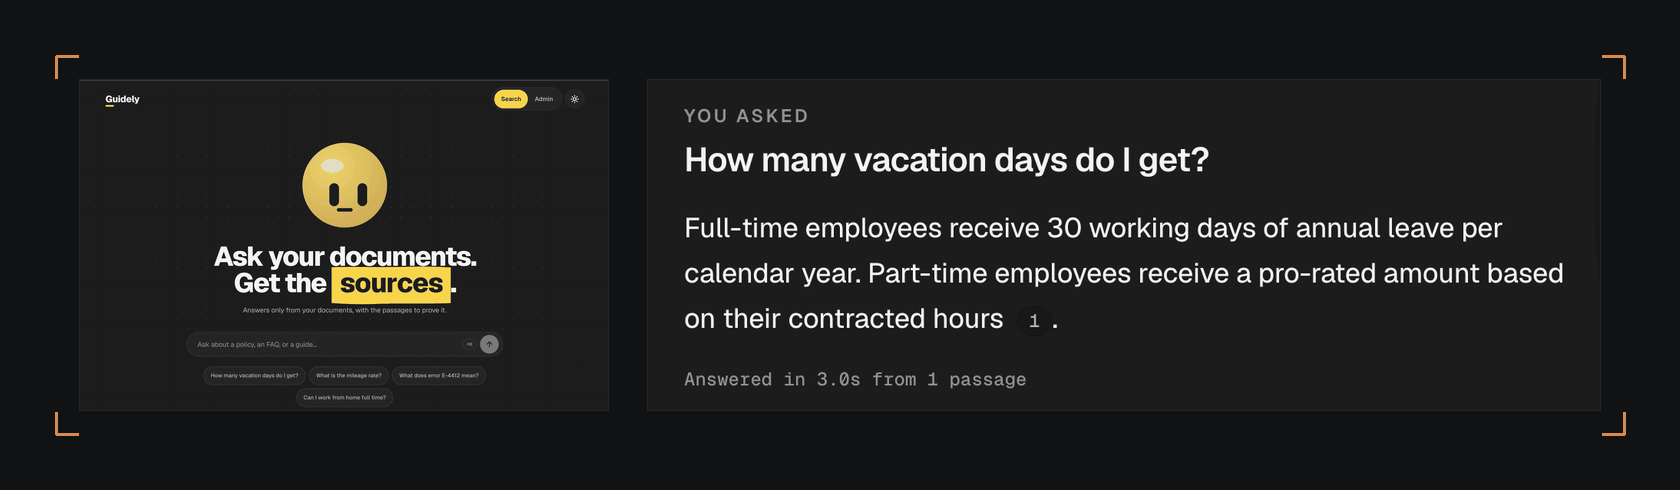
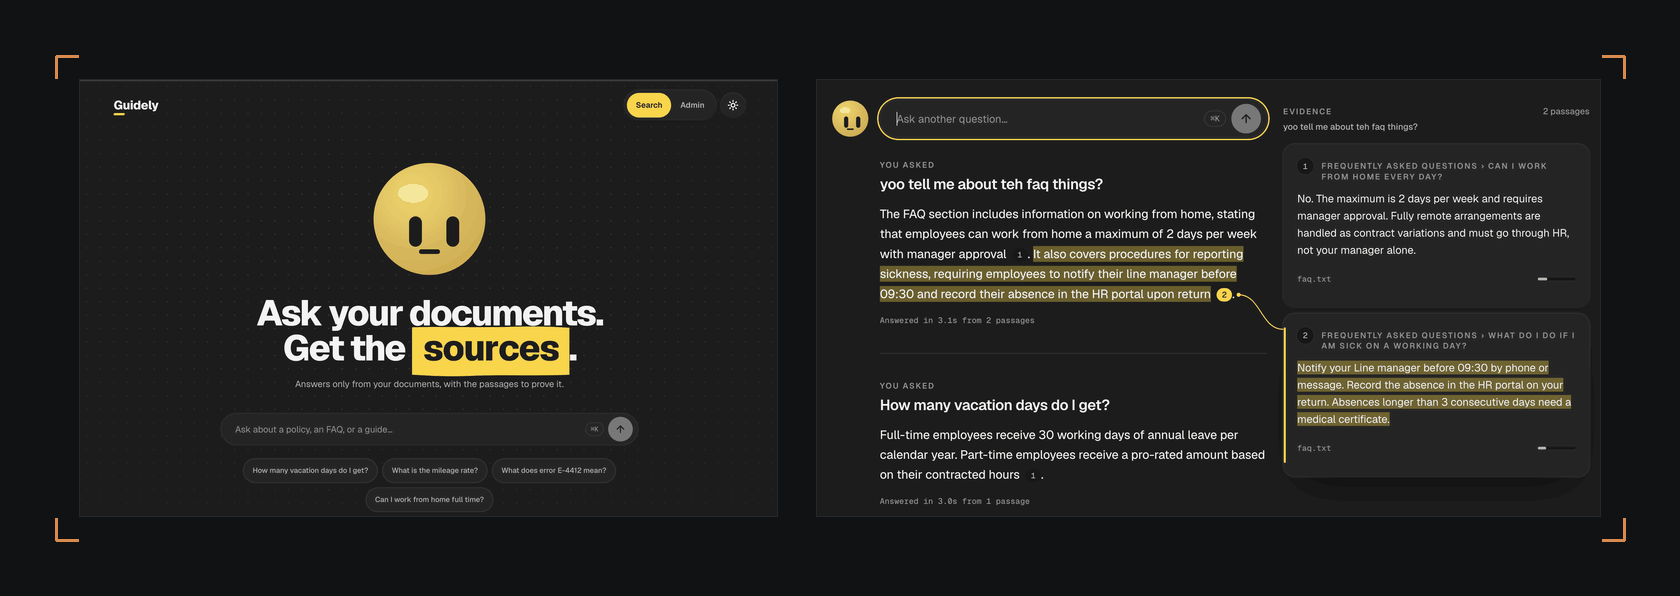
Hero: drop the Arabic panel, open up spacing; Guidely: full answer screen with citations
Claude-Session: https://claude.ai/code/session_01FVzaJfu2vtTPRn9Vb34pe2

diff --git a/tools/build_svgs.py b/tools/build_svgs.py
@@ -159,44 +159,30 @@ class Svg:
 # ------------------------------------------------------------------- hero
 def hero(t):
     c = THEMES[t]
-    W, H, M = 1280, 440, 72
+    W, H, M = 1280, 540, 72
     s = Svg(W, H, t, "hero")
     s.dots("dots")
-    s.stripes("st", 0.5)
     s.rect(0, 0, W, H, c["bg"])
     s.rect(0, 0, W, H, "url(#dots)")
     s.crop_marks(24, 24, W - 24, H - 24, 18, c["muted"])
 
     A800, A500, M500 = alex(800), alex(500), mono(500)
-    s.text(M500, "// MANAMA, BAHRAIN", 16, M, 62, c["accent"], tracking=0.08)
+    s.text(M500, "// MANAMA, BAHRAIN", 16, M, 74, c["accent"], tracking=0.08)
 
     size = 144
     cap = A800.cap * size
-    b1, b2 = 198, 198 + 120
-    s.text(A800, "ABDULLA", size, M, b1, stroke=c["text"], sw=2.5, tracking=0.035, kern=False)
-    w2 = s.text(A800, "AHMED", size, M, b2, stroke=c["text"], sw=2.5, tracking=0.035, kern=False)
+    b1, b2 = 236, 236 + 150
+    s.text(A800, "ABDULLA", size, M, b1, stroke=c["text"], sw=2.5, tracking=0.06, kern=False)
+    w2 = s.text(A800, "AHMED", size, M, b2, stroke=c["text"], sw=2.5, tracking=0.06, kern=False)
     # blinking cursor, the only moving element
-    cx = M + w2 + 26
+    cx = M + w2 + 30
     s.add(f'<rect x="{fmt(cx)}" y="{fmt(b2 - cap)}" width="34" height="{fmt(cap)}" fill="{c["accent"]}">'
           f'<animate attributeName="opacity" values="1;1;0;0" keyTimes="0;0.5;0.5;1" dur="1.1s" repeatCount="indefinite"/></rect>')
 
-    s.text(A500, "Full-stack developer and UI/UX designer", 30, M, 372, c["text"])
-    s.line(M, 390.5, 900, 390.5, c["line"])
-    s.text(M500, "NOW: CLOUD INNOVATION CENTER INTERN, AWS", 13, M, 416, c["muted"], tracking=0.06)
-
-    # stripe panel (right), framed
-    px, py, pw, ph = 984, 68, 224, 304
-    s.rect(px, py, pw, ph, c["surface"])
-    s.rect(px, py, pw, ph, "url(#st)")
-    # Arabic name, outlined like the Latin one (shaped right to left, joined)
-    asz = 50
-    aw = A800.width("عبدالله", asz)
-    assert aw < pw - 40, aw
-    s.text(A800, "عبدالله", asz, px + pw / 2, py + ph / 2 + A800.cap * asz / 2, stroke=c["text"], sw=2.5,
-           anchor="middle", kern=True)
-    s.rect(px + .5, py + .5, pw - 1, ph - 1, "none", c["line"])
-    s.crop_marks(px - 12, py - 12, px + pw + 12, py + ph + 12, 12, c["accent"], 1.5)
-    s.text(M500, "26.22 N / 50.59 E", 13, px + pw, py + ph + 44, c["muted"], tracking=0.06, anchor="end")
+    s.text(A500, "Full-stack developer and UI/UX designer", 30, M, 452, c["text"])
+    s.line(M, 478.5, W - M, 478.5, c["line"])
+    s.text(M500, "NOW: CLOUD INNOVATION CENTER INTERN, AWS", 13, M, 506, c["muted"], tracking=0.06)
+    s.text(M500, "26.22 N / 50.59 E", 13, W - M, 506, c["muted"], tracking=0.06, anchor="end")
     return s.save()
 
 
@@ -335,7 +321,7 @@ def guidely_png(t):
     c = THEMES[t]
     W, M, GAP = 1680, 80, 40
     home = Image.open(SRC / "guidely-home.png").convert("RGB").crop((371, 0, 2860, 1556))  # stops above the live stats line
-    ans = Image.open(SRC / "guidely-answer.png").convert("RGB").crop((590, 1128, 1830, 1558))  # second Q&A only
+    ans = Image.open(SRC / "guidely-answer.png").convert("RGB").crop((450, 265, 2780, 1562))  # answer with citations and the evidence panel
     a1, a2 = home.width / home.height, ans.width / ans.height
     inner = W - 2 * M - GAP
     H = round(inner / (a1 + a2))

diff --git a/README.md b/README.md
@@ -4,6 +4,9 @@
   <img src="./assets/hero-light.svg" alt="Abdulla Ahmed. Full-stack developer and UI/UX designer. Manama, Bahrain. Currently a Cloud Innovation Center intern at AWS." width="100%">
 </picture>
 
+<br>
+
+
 <p align="center">
   I design interfaces and build the systems behind them. Currently a Cloud Innovation Center intern at AWS, building an Arabic-first compliance tool. Studying ICT (Programming) at Bahrain Polytechnic and full-stack development at Reboot01.
 </p>
@@ -65,8 +68,10 @@ Solo RAG assistant that answers from company documents with cited sources. 100% 
 <picture>
   <source media="(prefers-color-scheme: dark)" srcset="./assets/shot-guidely-dark.png">
   <source media="(prefers-color-scheme: light)" srcset="./assets/shot-guidely-light.png">
-  <img src="./assets/shot-guidely-light.png" alt="Guidely screenshots: the home screen 'Ask your documents. Get the sources.' with suggested questions, and an answer with numbered citations linked to the evidence passages." width="100%">
+  <img src="./assets/shot-guidely-light.png" alt="Guidely screenshots: the home screen 'Ask your documents. Get the sources.' and an answer with numbered citations linked to the evidence passages they came from." width="100%">
 </picture>
+
+<sub>The first question was typed casually on purpose: Guidely rewrites informal or misspelt questions before searching.</sub>
 
 <br>
 
